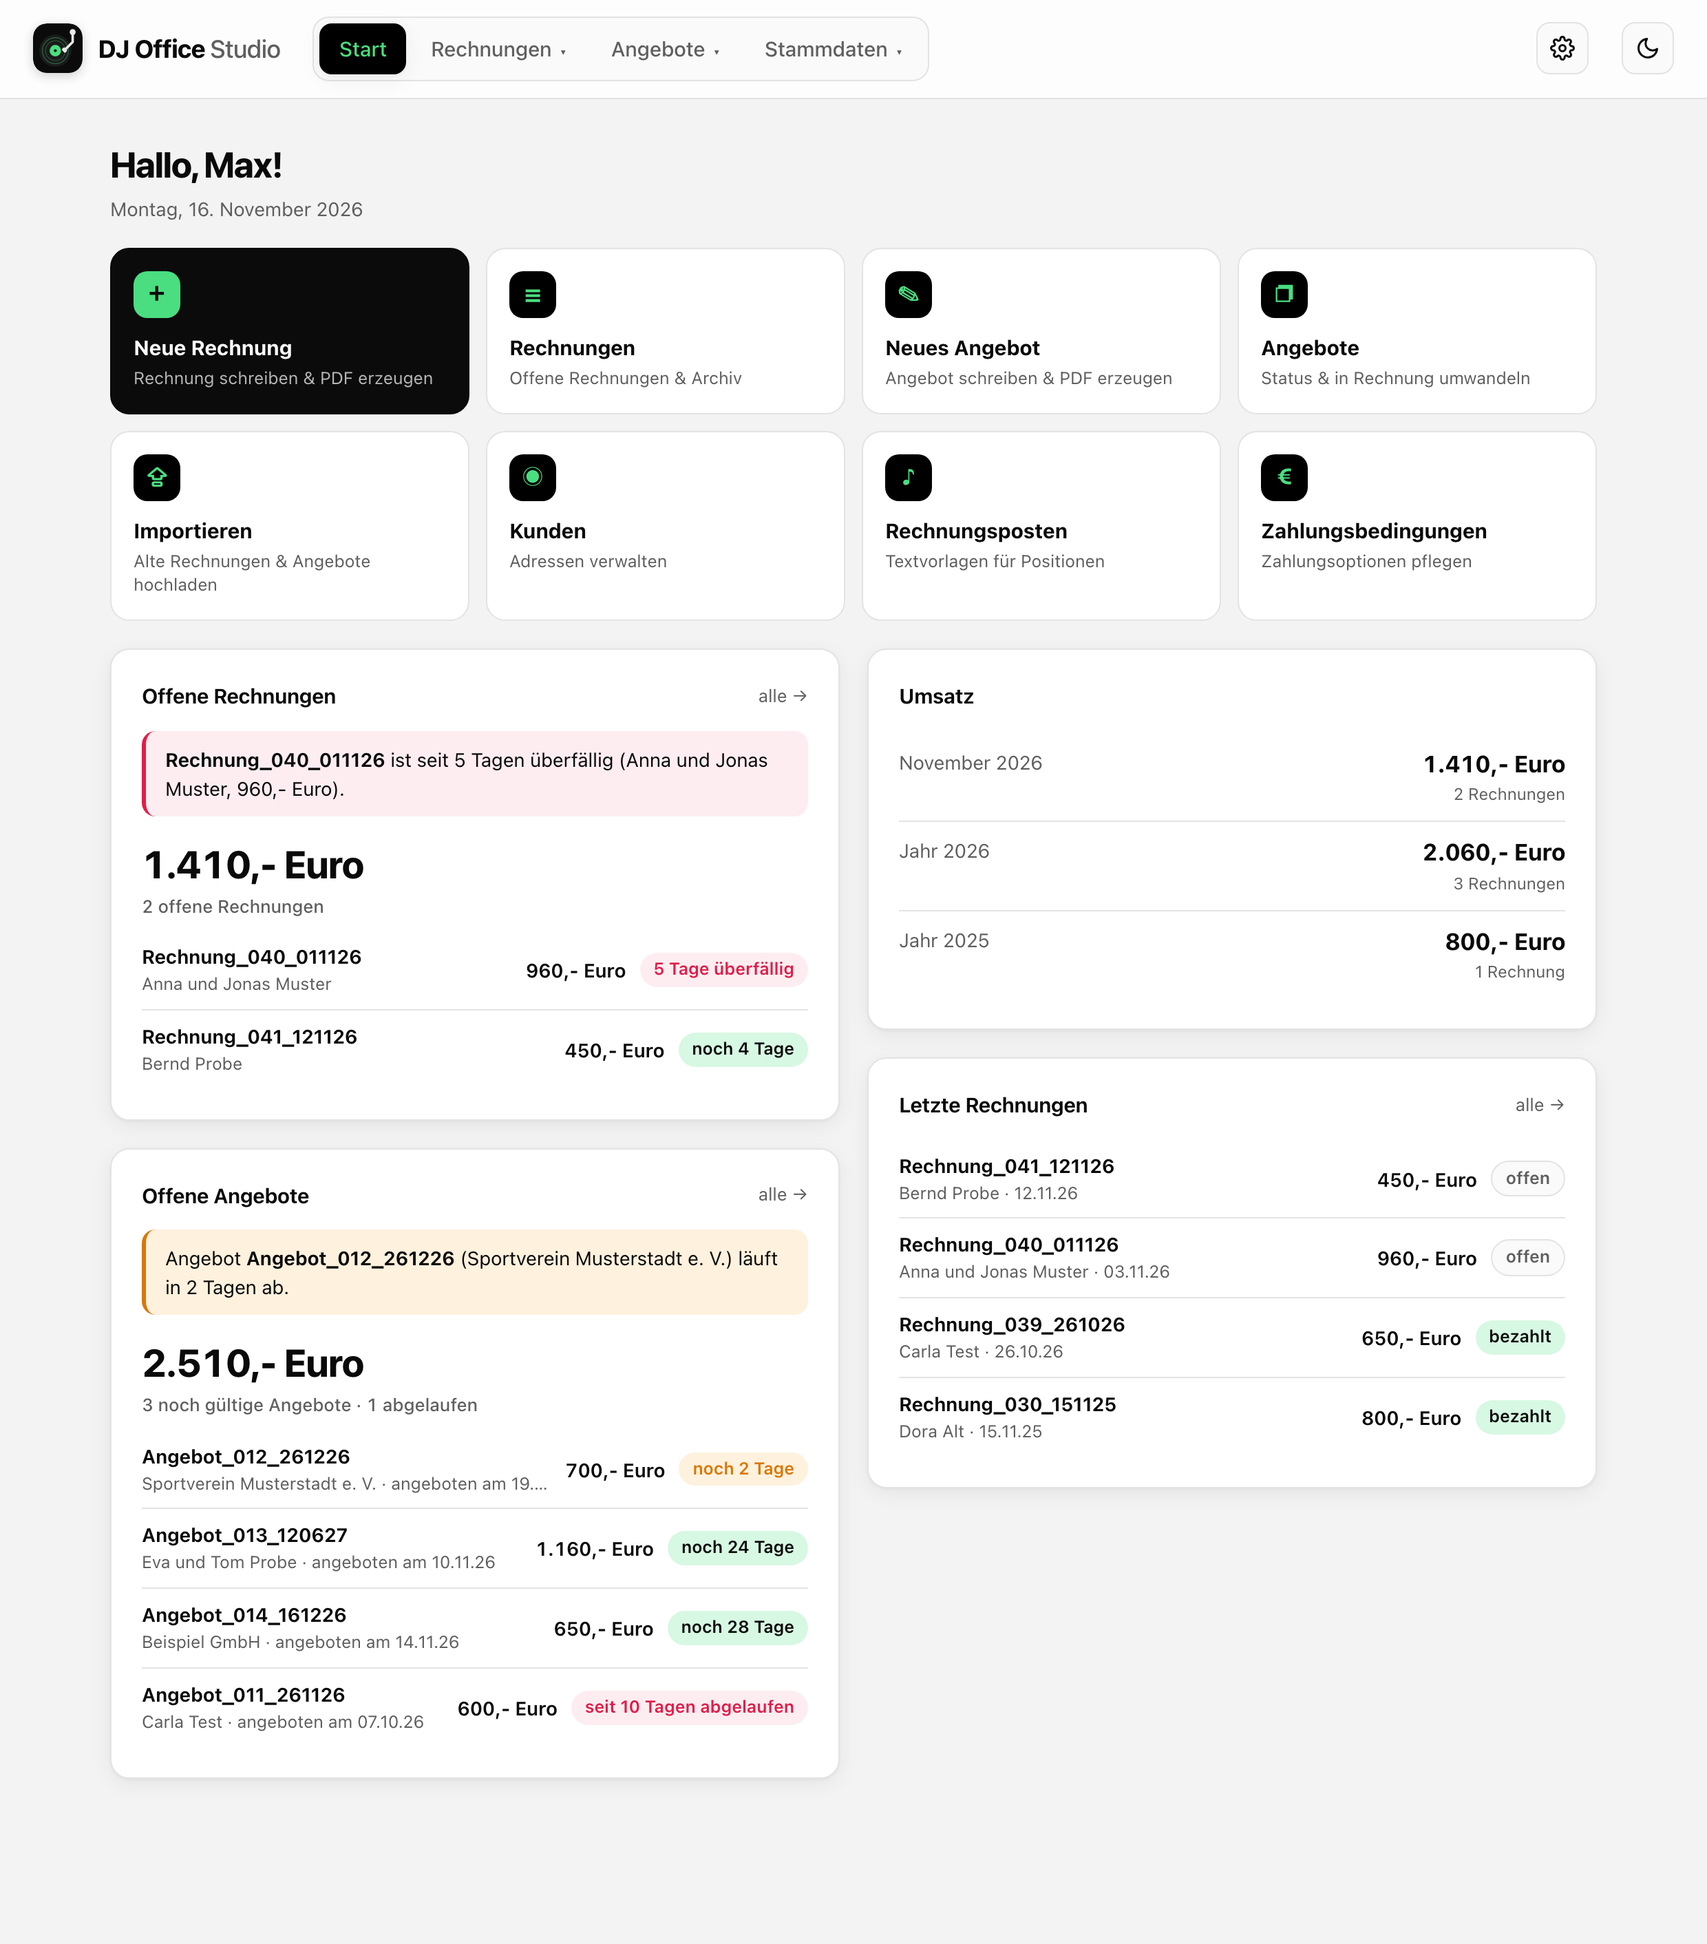
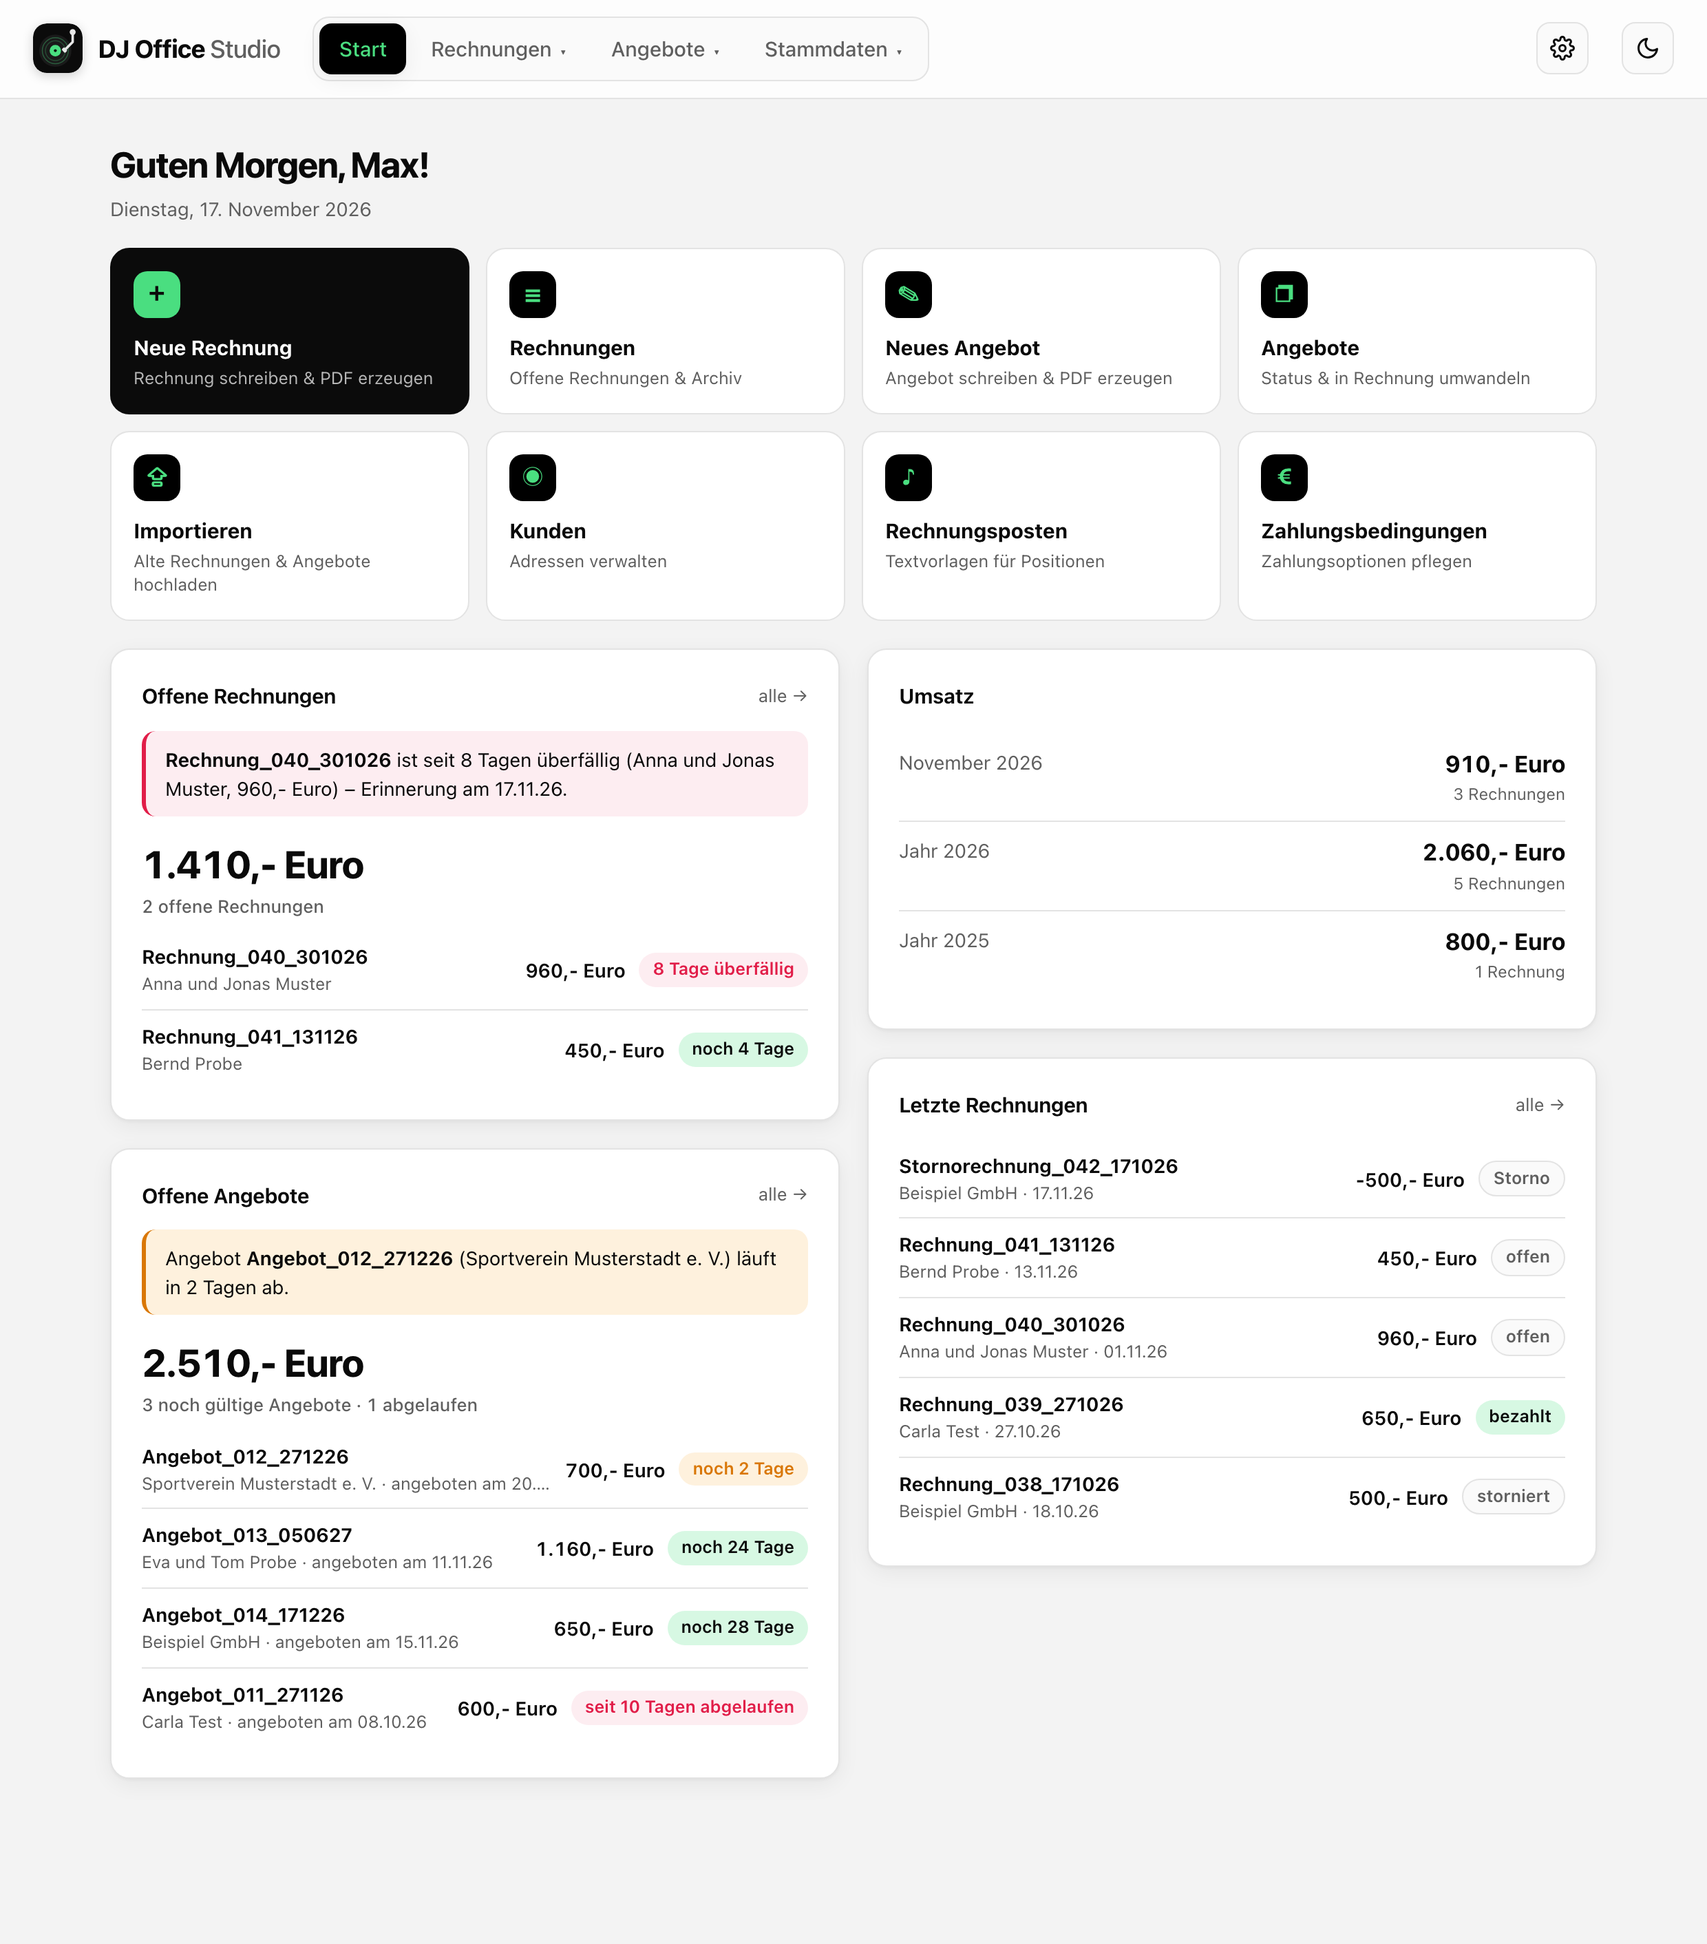
README-Screenshots per Skript (docs/screenshots.py), neues Bild Rechnungen; Darstellungsfehler behoben

diff --git a/rechnungen/app/static/index.html b/rechnungen/app/static/index.html
@@ -345,8 +345,7 @@
           <div class="grid2 sicherung">
             <div>
               <strong>Sicherung</strong>
-              <p class="hint">Alle Daten – Kunden, Rechnungen, Angebote, Mahnungen, Einstellungen – in einer Datei.
-                Am besten regelmäßig herunterladen und z. B. in der Cloud ablegen.</p>
+              <p class="hint">Alle Daten – Kunden, Rechnungen, Angebote, Mahnungen, Einstellungen – in einer Datei. Am besten regelmäßig herunterladen und z. B. in der Cloud ablegen.</p>
               <div class="row">
                 <button type="button" id="sicherung-btn" class="secondary">⇩ Sicherung herunterladen</button>
                 <button type="button" id="wiederherstellen-btn" class="secondary">⇪ Sicherung einspielen</button>
@@ -355,8 +354,7 @@
             </div>
             <div>
               <strong>Export für den Steuerberater</strong>
-              <p class="hint">Alle Rechnungen eines Jahres (inkl. Stornos, mit Bezahlt-Datum) als Excel-Tabelle (CSV)
-                und alle PDFs in einer ZIP-Datei.</p>
+              <p class="hint">Alle Rechnungen eines Jahres (inkl. Stornos, mit Bezahlt-Datum) als Excel-Tabelle (CSV) und alle PDFs in einer ZIP-Datei.</p>
               <div class="row">
                 <select id="export-jahr" aria-label="Jahr"></select>
                 <button type="button" id="export-btn" class="secondary">⇩ Exportieren</button>

diff --git a/rechnungen/app/static/style.css b/rechnungen/app/static/style.css
@@ -406,8 +406,9 @@ tr.angebot-zu td.btns, tr.angebot-zu td.auswahl-spalte, tr.angebot-zu td:nth-chi
 #tab-einstellungen label.inline { margin-bottom: 14px; }
 #tab-einstellungen p.hint { margin: 0 0 14px; }
 .info-karte { display: flex; justify-content: space-between; align-items: center; gap: 12px; flex-wrap: wrap; margin-bottom: 20px; }
-body.desktop .nur-ha { display: none; }
-body:not(.desktop) .nur-desktop { display: none; }
+/* !important: sonst gewinnen speziellere Regeln wie #tab-einstellungen label.inline { display: flex } */
+body.desktop .nur-ha { display: none !important; }
+body:not(.desktop) .nur-desktop { display: none !important; }
 .update-banner { display: flex; align-items: center; gap: 12px; flex-wrap: wrap;
   background: var(--primary-soft); color: var(--text); border-color: var(--neon); }
 .update-banner span { flex: 1; }
@@ -429,3 +430,4 @@ a.mahn-chip:hover { text-decoration: underline; }
 #tab-einstellungen .sicherung .row { flex-wrap: wrap; gap: 8px; align-items: center; }
 #tab-einstellungen .sicherung select { width: auto; }
 #tab-einstellungen .sicherung p.hint { margin: 4px 0 10px; }
+.summen-zeile .naechste, .summen-zeile td:nth-child(3) { white-space: nowrap; }

diff --git a/docs/screenshots.py b/docs/screenshots.py
@@ -1,0 +1,163 @@
+"""Erzeugt die Screenshots für die README (docs/bilder/*.png) – nur mit erfundenen Beispieldaten.
+
+    pip install -r rechnungen/requirements.txt playwright
+    python -m playwright install chromium
+    python docs/screenshots.py
+
+Nach jeder sichtbaren Änderung an der Oberfläche ausführen und die Bilder mit committen.
+"""
+import json
+import os
+import sys
+import tempfile
+import threading
+from datetime import date, timedelta
+from pathlib import Path
+
+ROOT = Path(__file__).resolve().parents[1]
+ZIEL = ROOT / "docs" / "bilder"
+tmp = tempfile.mkdtemp()
+os.environ.update(DATA_DIR=tmp, OPTIONS_PATH=os.path.join(tmp, "options.json"))
+sys.path.insert(0, str(ROOT / "rechnungen" / "app"))
+
+import db  # noqa: E402
+import main  # noqa: E402
+
+db.init()
+db.save_settings({
+    "_uebernommen": True, "name": "Max Beispiel", "strasse": "Musterweg 1", "plz_ort": "12345 Musterstadt",
+    "telefon": "0170/1234567", "ort_fuer_datum": "Musterstadt", "bank_name": "Sparkasse Musterstadt",
+    "iban": "DE00 0000 0000 0000 0000 00", "bic": "ABCDEFGHXXX", "steuernummer": "12/345/67890",
+    "kleinunternehmer": True, "startnummer": 37, "angebot_startnummer": 10, "angebot_gueltigkeit_tage": 30,
+    "pdf_ordner": os.path.join(tmp, "pdf"),   # in den Einstellungen wird unten der übliche Pfad gezeigt
+    "paperless_installiert": True, "paperless_eingangsordner": "/share/paperless/consume",
+})
+c = main.app.test_client()
+heute = date.today()
+d = lambda n: (heute + timedelta(days=n)).isoformat()   # noqa: E731
+ZB8 = "Bitte den Betrag innerhalb der nächsten 8 Tage auf das unten genannte Konto überweisen."
+K = {
+    "anna": {"name": "Anna und Jonas Muster", "strasse": "Lindenweg 12", "plz": "12345", "ort": "Musterstadt"},
+    "bernd": {"name": "Bernd Probe", "strasse": "Am Markt 3", "plz": "12346", "ort": "Beispielhausen"},
+    "carla": {"name": "Carla Test", "strasse": "Rosenstr. 8", "plz": "12347", "ort": "Testdorf"},
+    "dora": {"name": "Dora Alt", "strasse": "Feldweg 2", "plz": "12348", "ort": "Altstadt"},
+    "verein": {"name": "Sportverein Musterstadt e. V.", "strasse": "Sportplatz 1", "plz": "12345", "ort": "Musterstadt"},
+    "firma": {"name": "Beispiel GmbH", "strasse": "Industriestr. 5", "plz": "12349", "ort": "Neustadt"},
+    "eva": {"name": "Eva und Tom Probe", "strasse": "Birkenallee 7", "plz": "12346", "ort": "Beispielhausen"},
+}
+H = "Jede weitere angefangene Stunde wird mit 80,- Euro berechnet.\nDie GEMA-Anmeldung erfolgt durch den Veranstalter."
+
+
+def pos(text, datum, preis):
+    return {"beschreibung": text, "lieferdatum": datum, "preis": preis}
+
+
+def angebot(nr, kunde, datum, gueltig, positionen):
+    r = c.post("/api/angebote", json={"art": "angebot", "nummer": nr, "datum": datum, "gueltig_bis": gueltig,
+                                      "kunde": K[kunde], "positionen": positionen, "hinweise": H})
+    assert r.status_code == 201, r.get_json()
+    return r.get_json()["id"]
+
+
+def rechnung(nr, kunde, datum, positionen, bezahlt=False, angebot_id=None):
+    r = c.post("/api/rechnungen", json={"nummer": nr, "datum": datum, "kunde": K[kunde], "positionen": positionen,
+                                        "zahlungsbedingung": ZB8, "angebot_id": angebot_id})
+    assert r.status_code == 201, r.get_json()
+    inv_id = r.get_json()["id"]
+    if bezahlt:
+        c.patch(f"/api/rechnungen/{inv_id}/bezahlt", json={"bezahlt": True})
+    return inv_id
+
+
+# Angebote
+a010 = angebot("010", "anna", d(-60), d(-30), [pos("DJ – Tätigkeit Hochzeit – 17:00 Uhr bis 2:00 Uhr", d(-18), 900)])
+angebot("011", "carla", d(-40), d(-10), [pos("DJ – Tätigkeit Geburtstagsfeier – 20:00 Uhr bis 2:00 Uhr", d(10), 600)])
+angebot("012", "verein", d(-28), d(2), [pos("DJ – Tätigkeit Vereinsfeier – 19:00 Uhr bis 1:00 Uhr", d(40), 700)])
+angebot("013", "eva", d(-6), d(24), [pos("DJ – Tätigkeit Hochzeit – 16:00 Uhr bis 2:00 Uhr", d(200), 1100),
+                                     pos("Fahrtkosten", d(200), 60)])
+angebot("014", "firma", d(-2), d(28), [pos("DJ – Tätigkeit Weihnachtsfeier – 18:00 Uhr bis 0:00 Uhr", d(30), 650)])
+
+# Rechnungen: bezahlt, überfällig mit Zahlungserinnerung, offen, storniert
+rechnung("030", "dora", f"{heute.year - 1}-11-15",
+         [pos("DJ – Tätigkeit Geburtstagsfeier – 20:00 Uhr bis 2:00 Uhr", f"{heute.year - 1}-11-15", 800)], bezahlt=True)
+rechnung("038", "firma", d(-30), [pos("DJ – Tätigkeit Firmenfeier – 19:00 Uhr bis 0:00 Uhr", d(-31), 500)])
+rechnung("039", "carla", d(-21), [pos("DJ – Tätigkeit Geburtstagsfeier – 19:00 Uhr bis 1:00 Uhr", d(-21), 650)],
+         bezahlt=True)
+r040 = rechnung("040", "anna", d(-16), [pos("DJ – Tätigkeit Hochzeit – 17:00 Uhr bis 2:00 Uhr", d(-18), 900),
+                                        pos("Fahrtkosten", d(-18), 60)], angebot_id=a010)
+rechnung("041", "bernd", d(-4), [pos("DJ – Tätigkeit Firmenfeier – 19:00 Uhr bis 0:00 Uhr", d(-4), 450)])
+c.post(f"/api/rechnungen/{r040}/mahnung")                                        # Zahlungserinnerung
+r038 = next(r["id"] for r in db.list_invoices() if r["nummer"] == "038")
+c.post(f"/api/rechnungen/{r038}/stornieren")                                    # 038 → Stornorechnung 042
+
+from playwright.sync_api import sync_playwright  # noqa: E402
+from waitress import create_server  # noqa: E402
+
+srv = create_server(main.app, host="127.0.0.1", port=0)
+threading.Thread(target=srv.run, daemon=True).start()
+URL = f"http://127.0.0.1:{srv.effective_port}/"
+ZIEL.mkdir(parents=True, exist_ok=True)
+fehler = []
+
+
+def oeffne(page, menue, tab):
+    page.click(f"nav .menu-kopf >> text={menue}")
+    page.click(f"nav [data-tab='{tab}']")
+    page.wait_for_timeout(900)
+    page.mouse.move(5, 890)
+
+
+with sync_playwright() as p:
+    browser = p.chromium.launch(args=["--lang=de-DE"])
+    ctx = browser.new_context(viewport={"width": 1240, "height": 900}, device_scale_factor=2, locale="de-DE")
+    ctx.add_init_script("localStorage.setItem('theme','light')")
+    page = ctx.new_page()
+    page.on("pageerror", lambda e: fehler.append(str(e)))
+
+    page.goto(URL)
+    page.wait_for_timeout(1500)
+    page.screenshot(path=str(ZIEL / "startseite.png"), full_page=True)
+
+    oeffne(page, "Rechnungen", "liste")
+    page.screenshot(path=str(ZIEL / "rechnungen.png"), full_page=True)
+
+    oeffne(page, "Angebote", "angebote")
+    page.screenshot(path=str(ZIEL / "angebote.png"), full_page=True)
+
+    page.click("#einstellungen-btn")
+    page.wait_for_timeout(800)
+    page.fill("[name=pdf_ordner]", "/share/rechnungen")   # üblicher Pfad statt Temp-Ordner (nicht gespeichert)
+    page.mouse.move(5, 890)
+    page.screenshot(path=str(ZIEL / "einstellungen.png"), full_page=True)
+
+    # Rechnungseditor mit Bestandskunde und zwei Positionen
+    ctx2 = browser.new_context(viewport={"width": 1240, "height": 1180}, device_scale_factor=2, locale="de-DE")
+    ctx2.add_init_script("localStorage.setItem('theme','light')")
+    page = ctx2.new_page()
+    page.on("pageerror", lambda e: fehler.append(str(e)))
+    page.goto(URL)
+    page.wait_for_timeout(1000)
+    oeffne(page, "Rechnungen", "neu")
+    page.fill("#k-name", "Anna")
+    page.wait_for_timeout(600)
+    page.keyboard.press("ArrowDown")
+    page.keyboard.press("Enter")
+    erste = page.locator("#positionen .pos").nth(0)
+    erste.locator(".tb").select_option(label="Hochzeit")
+    erste.locator(".von").fill("17:00")
+    erste.locator(".bis").fill("02:00")
+    erste.locator(".lieferdatum").fill(d(-2))
+    erste.locator(".preis").fill("960")
+    page.click("#pos-add")
+    zweite = page.locator("#positionen .pos").nth(1)
+    zweite.locator(".tb").select_option(value="frei")
+    zweite.locator(".beschreibung").fill("Fahrtkosten")
+    zweite.locator(".preis").fill("60")
+    page.evaluate("document.activeElement && document.activeElement.blur(); window.scrollTo(0, 0)")
+    page.mouse.move(5, 1100)
+    page.wait_for_timeout(400)
+    page.screenshot(path=str(ZIEL / "rechnungseditor.png"))
+    browser.close()
+
+print("Bilder in", ZIEL, "– JavaScript-Fehler:", fehler or "keine")
+sys.exit(1 if fehler else 0)

diff --git a/README.md b/README.md
@@ -38,6 +38,10 @@ Oben in der Kopfzeile gibt es auf jeder Seite das Menü: **Start**, **Rechnungen
 
 **Neue Rechnung:** Kundennamen eintippen und einen Vorschlag übernehmen (oder neue Adresse eingeben). Pro Position einen Rechnungsposten wählen, von/bis eintragen, Lieferdatum und Preis ergänzen. Zahlungsbedingung wählen, dann **PDF-Vorschau** oder **Rechnung speichern & PDF öffnen**.
 
+**Rechnungen:** Oben die offenen Rechnungen mit Restzeit. Ist eine Rechnung bezahlt, Haken setzen – sie wandert ins Archiv. Bei überfälligen Rechnungen erzeugt der grüne Button die nächste Stufe (Zahlungserinnerung → 1. Mahnung → 2. Mahnung) als PDF. 🔒 schreibt eine Rechnung fest, ✕ löscht sie bzw. storniert sie, wenn sie schon festgeschrieben ist. Im Archiv stehen bezahlte und stornierte Rechnungen; dort lassen sich Rechnungen auch stornieren.
+
+![Screenshot: Rechnungen](docs/bilder/rechnungen.png)
+
 **Angebote:** Über **Angebote → Neues Angebot** im selben Editor schreiben – zusätzlich mit **Gültig bis** und freien **Hinweisen** (z. B. Verlängerungsstunde, GEMA). In **Angebote → Angebote** stehen oben die offenen Angebote mit Restlaufzeit, darunter alle Angebote mit Status (offen / angenommen / abgelehnt). **→ Rechnung** macht aus einem Angebot eine neue Rechnung und markiert es als angenommen.
 
 ![Screenshot: Angebote](docs/bilder/angebote.png)
@@ -157,6 +161,15 @@ pip install pyinstaller pillow && python desktop/build.py   # App bauen (auf dem
 
 Die fertigen Windows- und Mac-Versionen baut GitHub Actions (`.github/workflows/desktop.yml`); ein Tag `desktop-v…` erzeugt daraus ein Release. Für die PDFs wird eine TTF-Schrift gesucht (im Container Carlito, lokal z. B. Arial); mit `FONT_REGULAR` und `FONT_BOLD` lässt sich ein eigener Pfad setzen.
 
+### Screenshots für die README
+
+Nach jeder sichtbaren Änderung die Bilder in `docs/bilder/` neu erzeugen (nur mit erfundenen Beispieldaten):
+
+```bash
+pip install playwright && python -m playwright install chromium
+python docs/screenshots.py
+```
+
 ### Tests
 
 ```bash
@@ -187,6 +200,8 @@ desktop/
 .github/workflows/
   desktop.yml            Baut Windows- und Mac-Version, bei Tag „desktop-v…“ als Release
   tests.yml              Führt bei jedem Push die Tests aus
+docs/
+  screenshots.py         Erzeugt die README-Screenshots (docs/bilder/) mit Beispieldaten
 tests/                   Automatische Tests (pytest): API, PDFs, Festschreiben/Storno, Mahnungen, Sicherung, Import …
 ```
 

diff --git a/rechnungen/CHANGELOG.md b/rechnungen/CHANGELOG.md
@@ -2,6 +2,12 @@
 
 Alle Änderungen an DJ Office Studio. Neueste Version oben.
 
+## 0.12.1 – 2026-11-17
+
+### Behoben
+- Die Option „Beim Start nach neuen Versionen suchen“ wurde unter ⚙ Einstellungen auch in der Home-Assistant-App angezeigt – sie gilt nur für die Desktop-Version und ist dort jetzt wieder ausgeblendet.
+- Kleinere Darstellungsfehler: Hinweistexte bei „Datensicherung & Export“ brachen mitten im Satz um, „nächste Frist“ in der Summenzeile der offenen Rechnungen ebenfalls.
+
 ## 0.12.0 – 2026-11-17
 
 ### Neu
